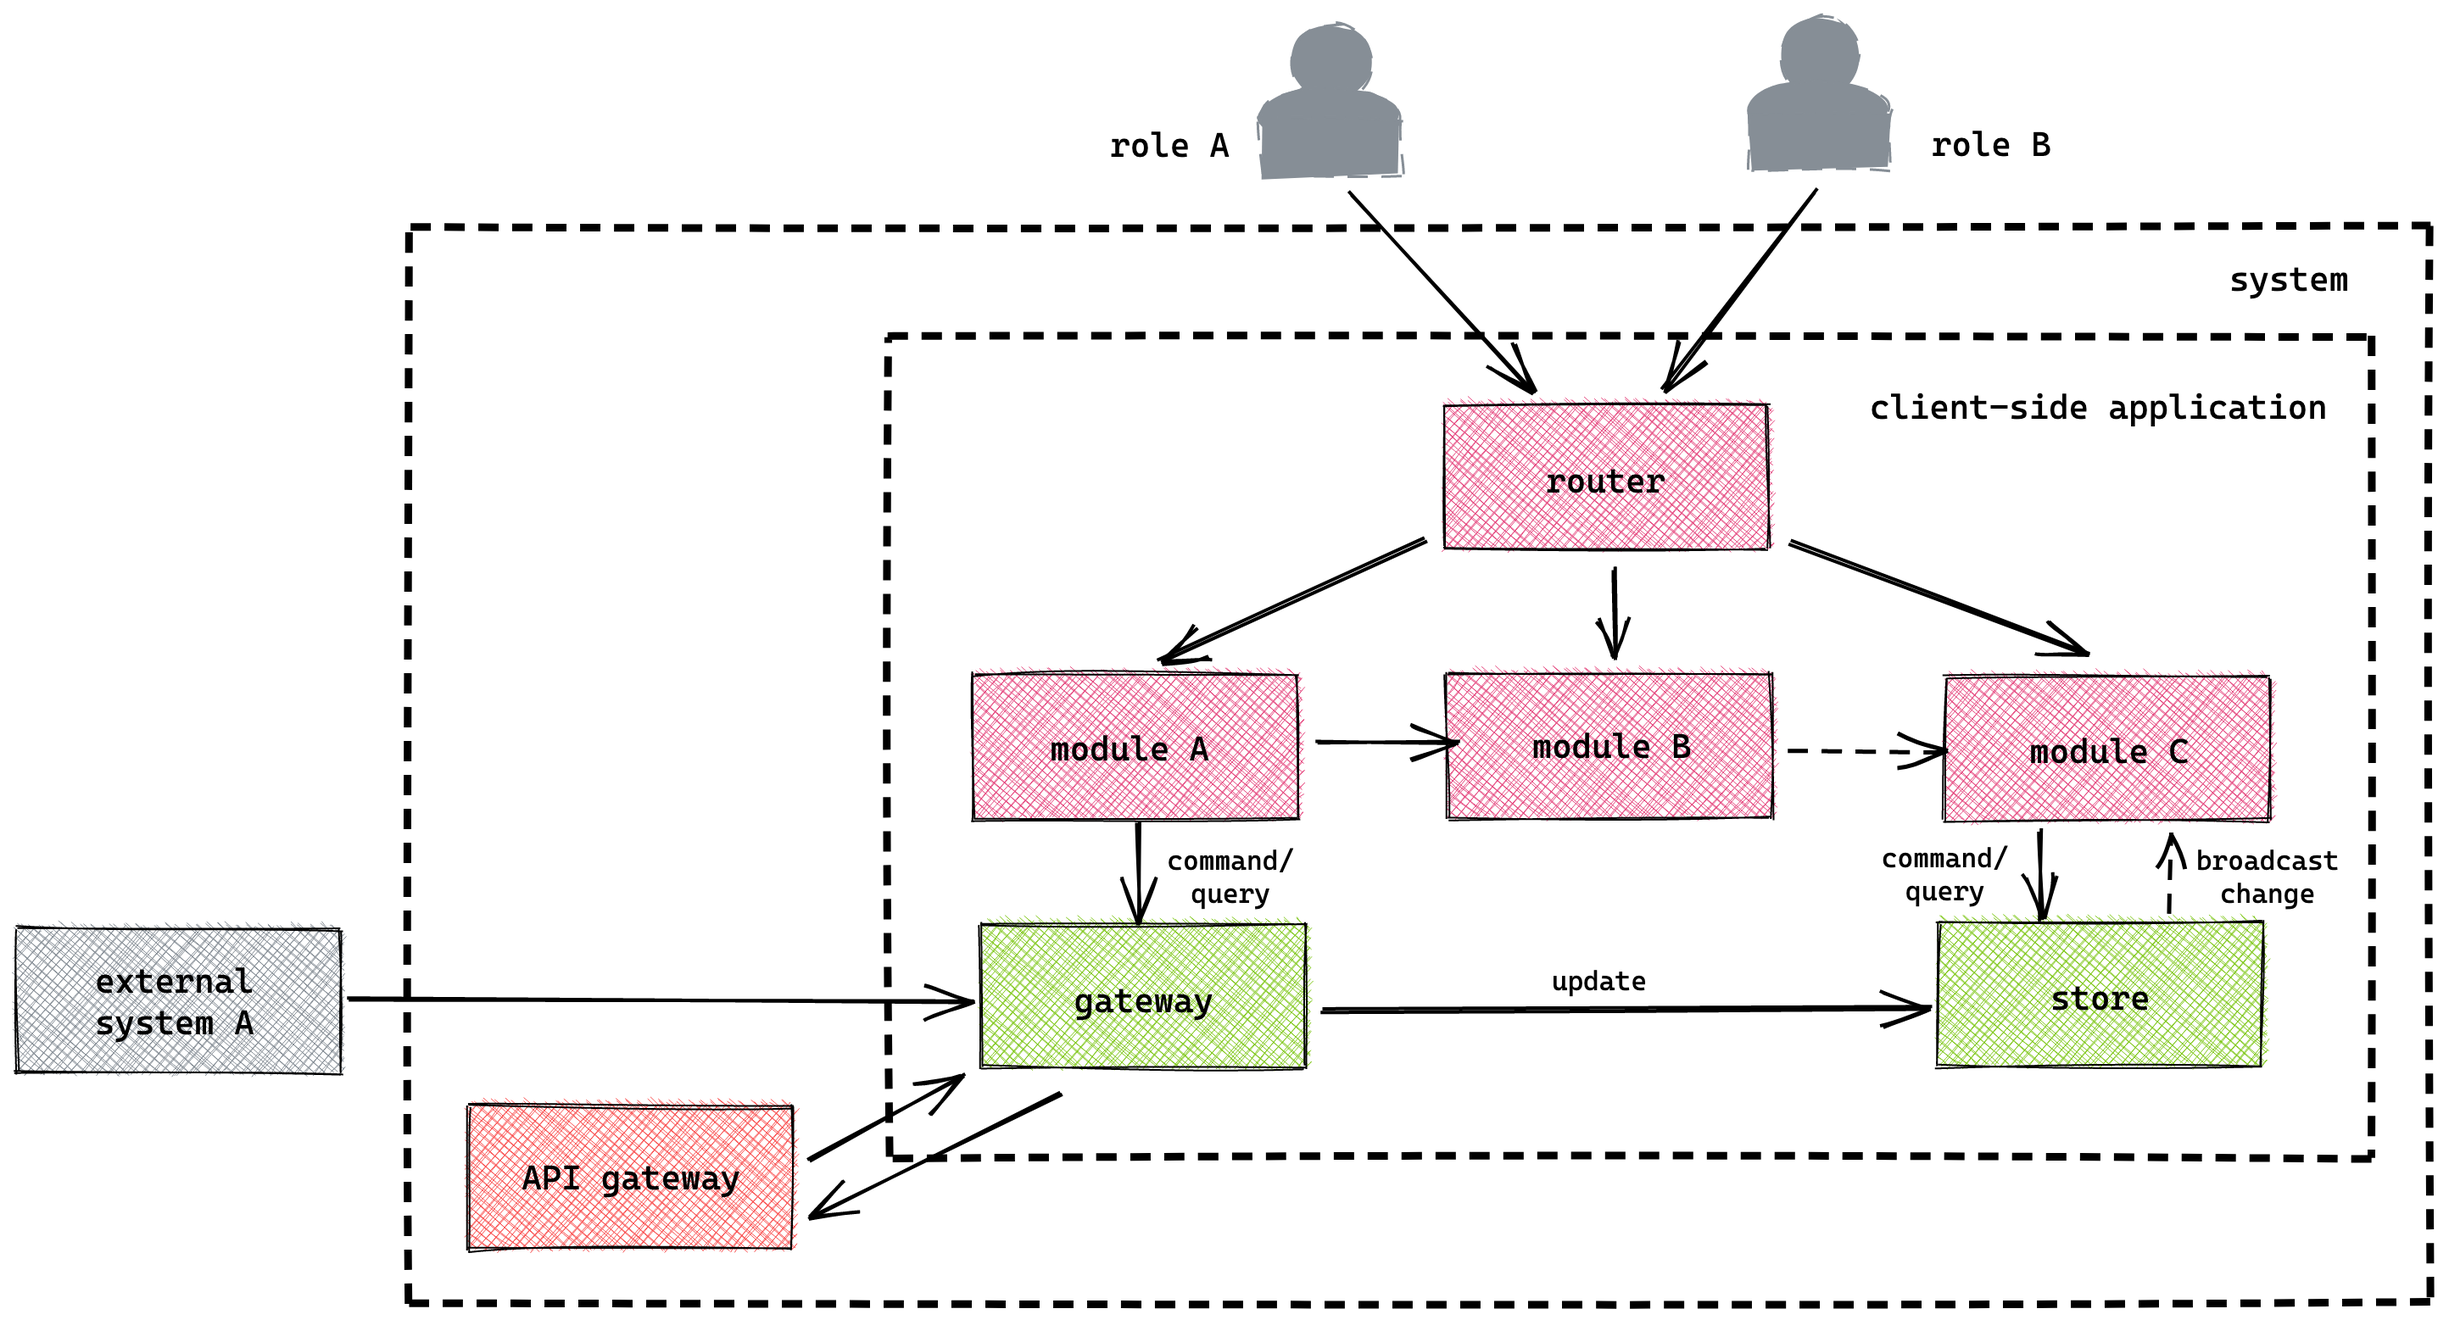
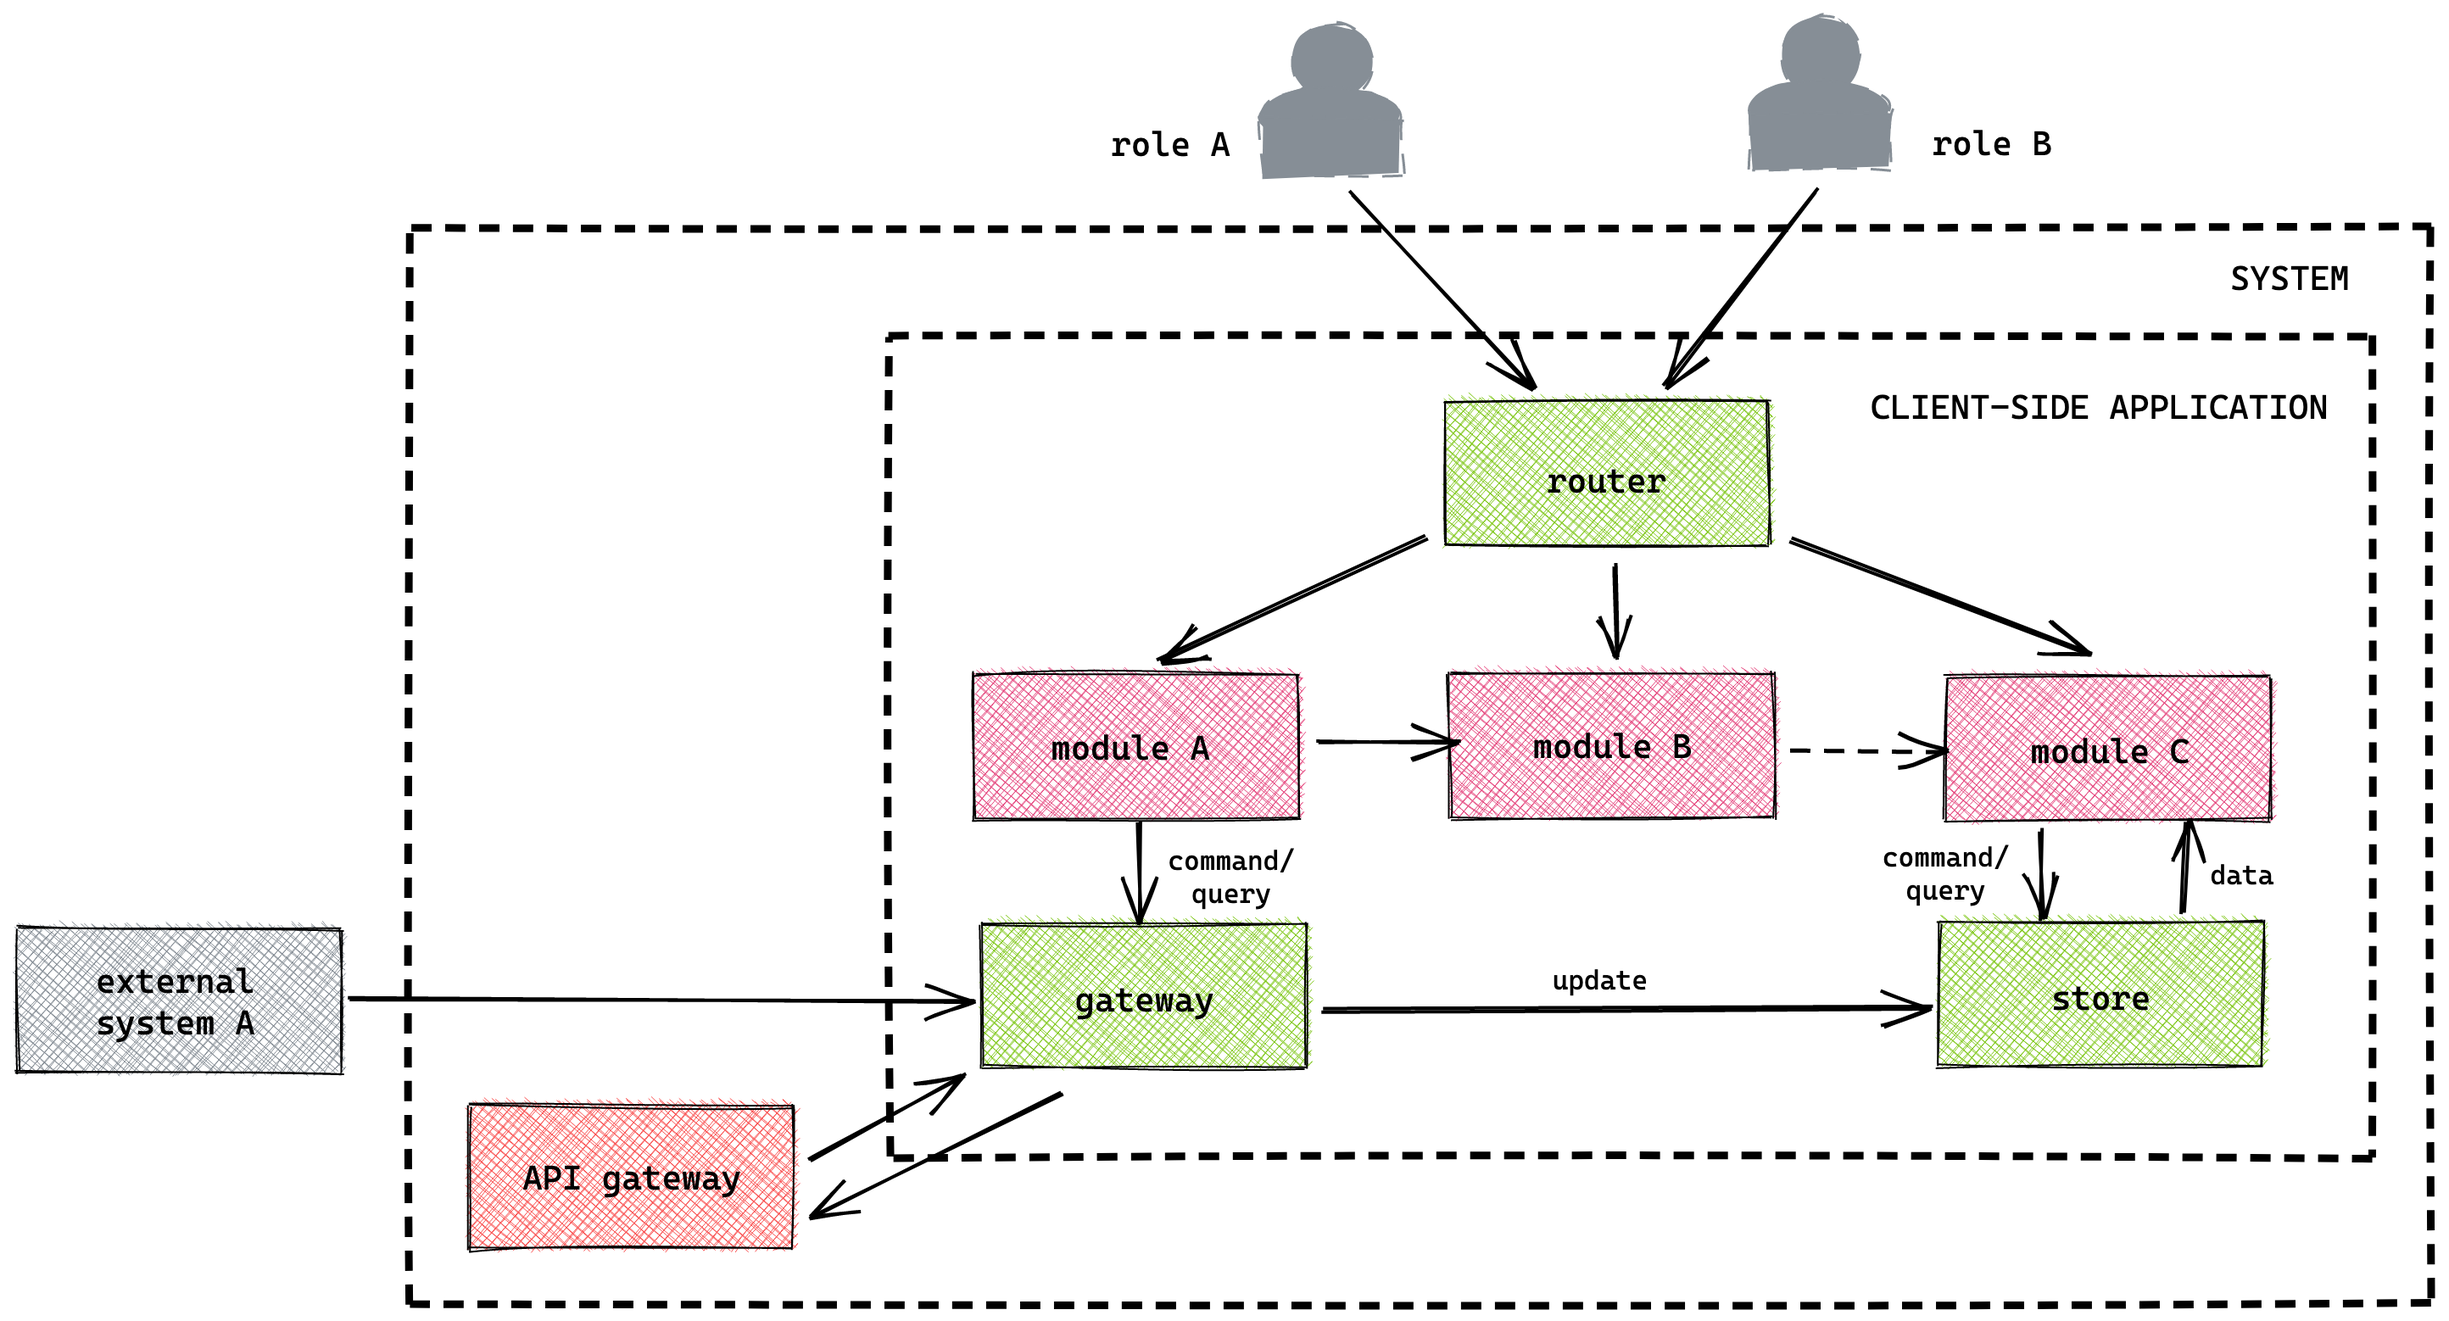
majority updated

diff --git a/README.md b/README.md
@@ -25,10 +25,10 @@ Separation of concerns is the activity of consciously enforcing logical boundari
 
 Although the clean architecture does not fit client-side applications, it gives insights into different layers that do exist in client-side applications. These layers are displayed on the right. Each feature on a client-side application is a vertical slice through these layers. 
 
-### Command query separation (CQS) and reactivity
+### Command query separation (CQS)
 On top of separation of concerns through a layered architecture, the **[Command Query Separation (CQS)](https://en.wikipedia.org/wiki/Command%E2%80%93query_separation)** pattern is used. This pattern describes how read and write operations, both internal and external, should be split. _Queries_ don't impact state, and return data, while _commands_ change the state, but do not return data.
 
-By splitting commands and queries, a client-side application can be made reactive. One component can subscribe to an application store through a query. When another component updates the store through a command, the first component is directly updated.  
+By splitting commands and queries, a client-side application can be made _reactive_. One component can subscribe to an application store through a query. When another component updates the store through a command, the first component is directly updated.  
 
 ![](./images/reactivity.png)
 
@@ -39,97 +39,68 @@ Features are vertical slices in the layers defined in the "separation of concern
 
  ![](./images/c4-components.png)
  
- > **NOTE**: modules represent the top three layers defined in the separation of concerns. The _gateway_ and _store_ represent the other two layers and are discussed in a different section.
+ > **NOTE**: modules represent the top three layers defined in the separation of concerns. The _gateway_ and _store_ represent the other two layers and are discussed in a different section. Other elements can exist on this level (e.g. pub/sub, history stack, web-workers).
 
-By dividing features in modules, the client-side application becomes more maintainable, scalable, and shareable. Modules can be extracted from one solution and used in another (e.g. as a micro front-end or NPM package). 
-
-## Client-side architecture
-
-
-- General idea is MVP + CQS, to facilitate reactivity and separation of concern
-- Features grouped in modules for composability, using DDD.
-
-![](./images/mvp.png)
-
-
----
-
-The main idea behind the front-end reference architecture is to implement [domain driven development](https://martinfowler.com/bliki/BoundedContext.html). Each bounded context is captured in a **module** (or [cell](https://github.com/wso2/reference-architecture/blob/master/reference-architecture-cell-based.md)) component.
-
-> **DEFINITION**: a component is a conceptual grouping of functionalities. Not to be confused with a UI component.
-
-Modules can be dependent on each other. There are two types of dependencies:
+By dividing features in modules, the client-side application becomes more maintainable, scalable, and shareable. Modules can be extracted from one solution and used in another (e.g. as a micro front-end or NPM package). Modules can be dependent on each other. There are two types of dependencies:
 
 - *Hard dependency (solid arrow)*: when module A is dependent on module B, module A can invoke commands impacting module B. 
 - *Soft dependency (dotted arrow)*: when module A is dependent on module B, module A can use queries or UI components from module B. 
 
-Next to the module components, there are several general components present in a front-end container. These components represent the application and data-access layer of the front-end application.
+## Module architecture
+To comply with the core principles, the main idea of the module architecture follows the [Model-View-Presenter](https://en.wikipedia.org/wiki/Model%E2%80%93view%E2%80%93presenter) pattern. The general architecture is displayed below. 
 
-![](/images/c4-frontend-component-diagram.png)
+![](./images/c4-elements.png)
 
-Besides the visualized application layer components, other components can be placed in this layer. Examples are a dedicated **[pub/sub](https://en.wikipedia.org/wiki/Publish%E2%80%93subscribe_pattern)** (e.g. for browser tab synchronization or scheduled events), the browser **history** stack, an **error tracker** or a **process manager** mediates and prioritizes heavy background operations (i.e. web-workers) to increase the performance of the web application.
+The _controller_ can take many forms. It can be a UI component (e.g. page) that combines state interaction and external calls with UI rendering. Or, it can be a controller without any UI that is solely used by multiple UI components to perform commands and queries. The last possibility is that the controller is integrated in a UI component. 
 
-## Application store
+> **NOTE**: React Context can be used as  a controller-type presenter.
 
-- Also known as co-location https://kentcdodds.com/blog/colocation/
+Big modules comprise of multiple pages. In that case, the module includes a module-level **router**, implemented on the highest level. This can be the controller, or a wrapper. In case of the latter, it is common that each page has, or is, its own controller.
 
-Large applications use the store for global state management. The recommendation is that the store follows the patterns around [event sourcing](https://martinfowler.com/eaaDev/EventSourcing.html). This means that the store should be:
+In the _operations_ (a.k.a. actions) is where decision are made. They link the controller, and therefore the UI, to our data stores and APIs. They go beyond commands and queries, as they implement additional logic as well (e.g. validation logic). 
+
+According to the [_co-location_]() principle, data should live as close to the components that require it. This can be achieved by allowing data to live on a module level, in a _module store_. This makes modules more generic and shareable.   Other modules should be able to use this data by using the operations. 
+
+## Application and module store
+Large applications use the store for global state management, the application store. However, according to the [co-location] principle data should live close to where it is used. This means that modules can have a store of their own as well. The recommendation is that the store follows the patterns around [event sourcing](https://martinfowler.com/eaaDev/EventSourcing.html). This means that the store should be:
 
 - It stores data in a **centralized** and normalizes the data, i.e. nesting of relational data is not allowed.
 - It is the owner of the data shape and mutations to increase resilience, i.e. it is **event-driven** and **immutable**.
 
-To follow the principles of this architecture, it uses an **access layer**. This _element_ is an [_facade_](https://en.wikipedia.org/wiki/Facade_pattern) and decouples the state interface, allowing for better composability. Store events (`get` and `update`) can be defined and invoked on a module-level. The access layer handles these events and applies them to the **data storage**, as visualized below. Optionally, the access layer can be connected to multiple data storages.
+ ![](./images/c4-store.png)
+ 
+To follow the principles of this architecture, it uses an **access layer**. This _element_ is an [_facade_](https://en.wikipedia.org/wiki/Facade_pattern) and decouples the state interface, allowing for better composability. Store events (`get` and `update`) can be defined and invoked on a module-level. The access layer handles these events and applies them to the **storage**. Optionally, the access layer can be connected to multiple data storages.
 
-![](/images/c4-store-element-diagram.png)
-
-> **NOTE**: many front-end applications use global state management for all data. Many existing global state management packages like [Redux](https://redux.js.org/style-guide/style-guide) have a coupled state interface. Although events are defined elsewhere, they have to be configured in the store.
+> **NOTE**: many front-end applications use global state management for all data. Many existing global state management packages like [Redux](https://redux.js.org/style-guide/style-guide) have a coupled state interface. Although events are defined elsewhere, they have to be configured in the store. Another option is using an atomic state library.
 
 An element triggers an event, the data is changed. The access layer sends an `update` event via an integrated [pub/sub](https://en.wikipedia.org/wiki/Publish%E2%80%93subscribe_pattern). Other elements can subscribe to these events and act to data changes. The access layer can subscribe to the pub/sub. This enables another way for the store to update (e.g. when requests come from a different browser tab).
 
 ## Gateway 
+The API gateway enables a consistent way to connect various external sources or APIs (e.g. REST and GraphQL). Each external source has its own corresponding **client** element. This element sends out the request. Each client has a chain of **middleware**. A middleware is a [_decorator_](https://www.oreilly.com/library/view/learning-javascript-design/9781449334840/ch09s14.html) that enhances each request (e.g. add authentication information).
 
-> **NOTE**: in case of one external source, a single API client can replace the gateway. Many open-source API clients support a similar structure (e.g. [Apollo Client](https://www.apollographql.com/client/)).
+![](./images/c4-gateway.png)
 
-The API gateway enables a consistent way to connect various external sources or APIs (e.g. REST and GraphQL). The _gateway_, _middleware_, and _client_ elements act as the API gateway. Each external source has its own corresponding **client** element. This element sends out the actual request. Each client has a chain of **middleware**. A middleware is a [_decorator_](https://www.oreilly.com/library/view/learning-javascript-design/9781449334840/ch09s14.html) that enhances each request (e.g. add authentication information).
+> **NOTE**: many open-source API clients implement a similar structure (e.g. [Apollo Client](https://www.apollographql.com/client/))
 
-![](/images/c4-gateway-element-diagram.png)
+Each request, regardless of the related external source, first goes through a _controller_. It allows for the sharing of generic logic between different clients of different external sources. This facade handles:
 
-Each request, regardless of the related external source, first goes through a _facade_. It allows for the sharing of generic logic between different clients of different external sources. This facade handles:
-
-- Interact with a _proxy_ cache or the application store, by getting and setting data. The gateway sets the lifespan of the cached data, using `state-while-revalidate` pattern.
 - [_circuit breaking_](https://en.wikipedia.org/wiki/Circuit_breaker_design_pattern) to ensure only external APIs are called when they are available. If it receives a server error, it bounces future outgoing requests for a limited time, allowing the API to restart itself.
 - Implement logic for authentication information refreshing. If a refresh request is in flight, it queues all other requests until the refresh request is finished.
 - Send requests to the correct middleware and client.
+- Send update requests to a _proxy_ cache or the application store. 
 
-If a request has a `cache-network` strategy, a cached value from the store is provided first. When the gateway receives the response, it sends the updated data to the request initiator and the cache.
+If a request has a `cache-network` strategy, the _operation_ from a module first retrieves a cached value from the store. When the gateway receives the response, it sends the updated data to the request initiator and the cache.
 
-> **NOTE**: in case your chosen UI framework does not allow of UI updates around asynchronous calls, you can let the element subscribe to the pub/sub and have the facade send the response via the pub/sub. you can use the pub/sub.
-
-To ensure resilience, each request should follow the same basic [statechart](https://statecharts.github.io/), which can be expanded. Each request starts in _idle_. From _idle_ the request can start. It now moves into the _loading_ state. From this state, four events can happen: success, abort, error, or start. In the latter's case, the previous request is aborted, and a new request is started.
-
-![](/images/gateway-statechart.png)
-
-## Modules
-
-Modules implement the concept of MVP to arrange business-related logic, state, and UI components. It includes several _elements_, as visualized below. It consists out of a **presenter**, **UI components** and **commands/queries** (a.k.a. actions). Optionally, a module can have a **store** that acts similarly to the application store.
-
-![](/images/c4-module-element-diagram.png)
-
-The presenter can take many forms. It can be a UI component (e.g. page) that combines state interaction and external calls with UI rendering. Or, it can be a controller without any UI that is solely used by multiple UI components to perform commands and queries. The last possibility is that the presenter is integrated in a UI component. 
-
-> **NOTE**: React Context can be used as  a controller-type presenter.
-
-Big modules comprise of multiple pages. In that case, the module includes a module-level **router**, implemented on the highest level. This can be the presenter, or a wrapper. In case of the latter, it is common that each page has, or is, its own presenter.
+> **NOTE**: in case your chosen UI framework does not allow of UI updates around asynchronous calls, you can let the element subscribe to the pub/sub and have the facade send the response via the pub/sub. 
 
 ## User interface component anatomy
-
 User interface (UI) components are the most important parts of the application. It requires the most development time. It is where the user sees and interacts with the application. There are three different component types.
 
 - **Layout** components are used for positioning of content (e.g. a Stack component) and are without styling by default (e.g. no background color). As no business logic is present in these components, they live outside the modules.
 - **Interaction** components are generic components that allow the user to interact with the application (buttons, links, form elements, etc.). Similar to layout components they are without styling by default, exist outside the modules.
 - **Content** components hold the user interface around the business logic. These components live within the modules and use layout components. They comprise out of five different elements that interact with each other.
 
-![](/images/ui-component-anatomy.png)
+![](./images/ui-component-anatomy.png)
 
 The API is how the parent UI component interact with this component. The parent component can provide values, configuration, and callbacks through the API. The values and configuration are, combined with the component state, used to render the UI.
 
